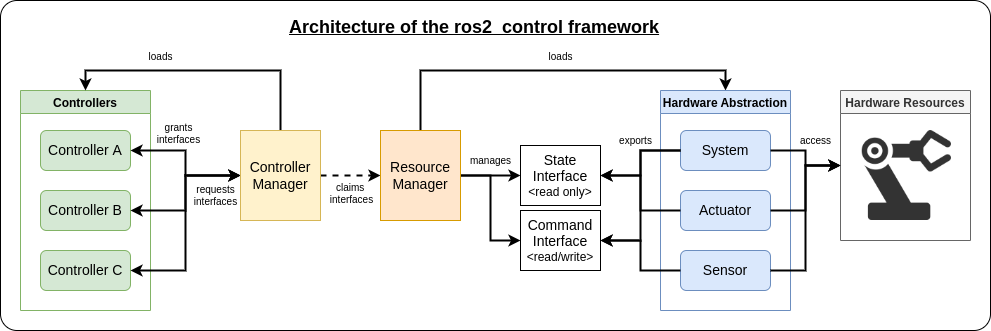
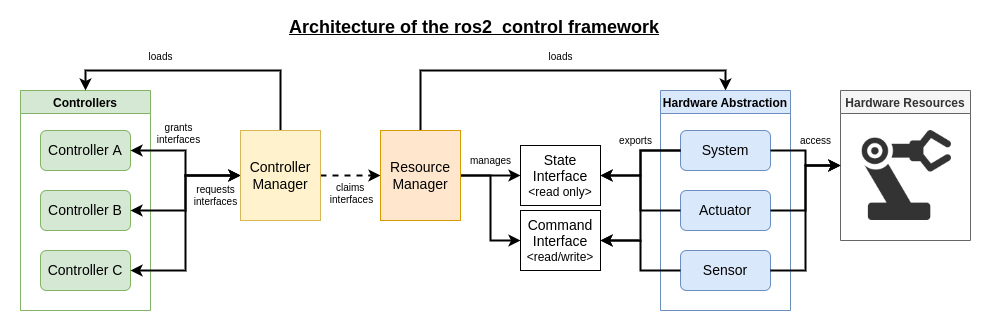
updated tutorial

diff --git a/resources/r2c_overview.md b/resources/r2c_overview.md
@@ -1,3 +1,54 @@
-# OverView of the ros2_control framework
+# Overview of the ros2_control framework
 
+The [ros2_control](https://control.ros.org) framework is a realtime control framework designed for general robotics applications. It is an abstraction layer for simple integration of hardware and controllers. The ros2_control framework comes with standard interfaces to enhance code modularity and robot agnostic design. Application specific details, such as the controller to be used or the robot description, are easily specified via configuration files. Finally, the ros2_control framework can easily be deployed via ROS2 launch a file.
+
+All these features of ros2_control allow to focus on the design of complex application by taking advantage of the possibility to use and reuse as often as possible existing controllers, hardware drivers and freely switch between simulation and execution on a real robotic system. Also, the effort spent on the development of custom controllers or hardware interfaces can easily be reused in many other projects. Finally, using standard components allows to easily integrate 3rd party ROS2 packages into the developed applications.
+
+![r2c overview](r2c_overview.png)
+
+In order to better understand how the framework works, let's focus at the components it consists of. 
+
+## Controller Manager
+
+The Controller Manager is the main component in the ros2_control framework, which connects the controllers and hardware-abstraction sides of the framework. It also serves as the entry-point for users through ROS services. The Controller Manager implements a node without an executor so it can be integrated into a custom setup. Still, for a standard user, it is recommended to use the default node-setup implemented in `ros2_control_node` file from the `controller_manager` package.
+
+On the one side, Controller Manager manages (e.g., loading, activating, deactivating, unloading) controllers and the interfaces they require. On the other side, it has access to the hardware components through the Resource Manager. The Controller Manager matches required and provided interfaces, gives controllers access to hardware when activated, or reports an error if there is an access conflict.
+
+The execution of the different components of the ros2_control framework in the control-loop is managed by the Controller Manager. At each loop iteration, it reads data from the hardware components, updates outputs of all active controllers, and writes the result to the components.
+
+The Controller Manager's control loop update can be summarized as follows:
+![r2c cm](r2c_cm.png)
+
+## Resource Manager
+
+The Resource Manager abstracts physical hardware and its drivers (called hardware components) for the ros2_control framework. The Resource Manager loads the components as plugins. It also manages the components' lifecycle and as well as state and command interfaces. This abstraction provided by the Resource Manager enables re-usability of implemented hardware components, e.g., robot and gripper, without any implementation and flexible hardware application for state and command interfaces, e.g., separate hardware/communication libraries for motor control and encoder reading.
+
+In the control loop execution managed by the Controller Manager, the Resource Manager’s `read()` and `write()` methods are called and deal with communication to the hardware components.
+
+## Controllers
+
+The controllers in the ros2_control framework have the same functionality as defined in the control theory. They compare the reference value with the measured output and, based on this error, calculate a system’s input. The controllers are loaded as plugins making their development independent of the framework. 
+
+When executing the control-loop, the Controller Manager calls the `update()` method of all controllers. This method can access the latest hardware states and enable the controller to send commands to the hardware interfaces.
+
+## Hardware Abstraction 
+
+The hardware abstraction layer is done using ros2_control hardware components that realize the communication to physical hardware and represent its abstraction in the ros2_control framework. The components have to be exported as plugins. The Resource Manager dynamically loads those plugins and manages their lifecycle.
+
+There are three basic types of components:
+
+1. __System__: Complex (multi-DOF) robotic hardware like industrial robots. The main difference between the Actuator component is the possibility to use complex transmissions like needed for humanoid robot’s hands. This component has reading and writing capabilities. It is used when the is only one logical communication channel to the hardware, such as when using a robot driver and SDK.
+
+2. __Sensor__: Hardware used for sensing some environment parameters. This component type has only reading capabilities.
+
+3. __Actuator__: Simple (1 DOF) robotic hardware like motors, valves, and similar. An actuator implementation is related to only one joint. This component type has reading and writing capabilities. Reading is not mandatory if not possible (e.g., DC motor control with Arduino board). The actuator type can also be used with a multi-DOF robot if its hardware enables modular design, e.g., CAN-communication with each motor independently.
+
+## State and Command Interfaces
+
+Finally, the ros2_control framework introduces `state_interfaces` and `command_interfaces` to abstract hardware interfacing. The `state_interfaces` are read only data handles that generally represent sensors readings, e.g. joint encoder. The `command_interfaces` are read and write data handles that are used to pass commands to the hardware. The `command_interfaces` are exclusively accessed, meaning if a controller has "claimed" an interface, it cannot be used by any other controller until it is released. This guarantees that two controllers will never be able to send commands to the same hardware in the same time, what could have a dangerous outcome. Both `state_interfaces` and `command_interfaces` are set up together with the hardware using configuration files.
+
+The overall architecture of the ros2_control framework can be summarized as follows:
 ![r2c architecture](r2c_architecture.png)
+
+
+

diff --git a/README.md b/README.md
@@ -1,5 +1,5 @@
 # Scara tutorial ROS2
-The [ros2_control](https://control.ros.org) is a realtime control framework designed for general robotics applications. It is an abstraction layer for simple integration of hardware and controllers. The ros2_control framework comes with standard interfaces to enhance code modularity and robot agnostic design. Application specific details, such as the controller to be used or the robot description, are easily specified via configuration files. Finally, the ros2_control framework can easily be deployed via ROS2 launch a file.
+The [ros2_control](https://control.ros.org) framework is a realtime control framework designed for general robotics applications that gains more and more attention both for research and industrial purposes. An overview of the ros2_control framework can be found [here](resources/r2c_overview.md).
 
 This tutorial is made to understand the basic concepts of controlling a robot using ros2_control. In particular, it describes how to :
 - [Write a URDF description of a simple SCARA manipulator](resources/urdf_tutorial.md)
@@ -37,7 +37,7 @@ This tutorial is made to understand the basic concepts of controlling a robot us
     ```
 
 ## Acknowledgments 
-This tutorial is partially inspired from [pac48](https://github.com/pac48/ros2_control_demos/tree/full-example-tutorial)'s tutorial.
+This tutorial is partially inspired from [pac48](https://github.com/pac48/ros2_control_demos/tree/full-example-tutorial)'s tutorial and the official [ros2_control website](https://control.ros.org).
 
 ## Contacts ##
 ![icube](https://icube.unistra.fr/fileadmin/templates/DUN/icube/images/logo.png)
